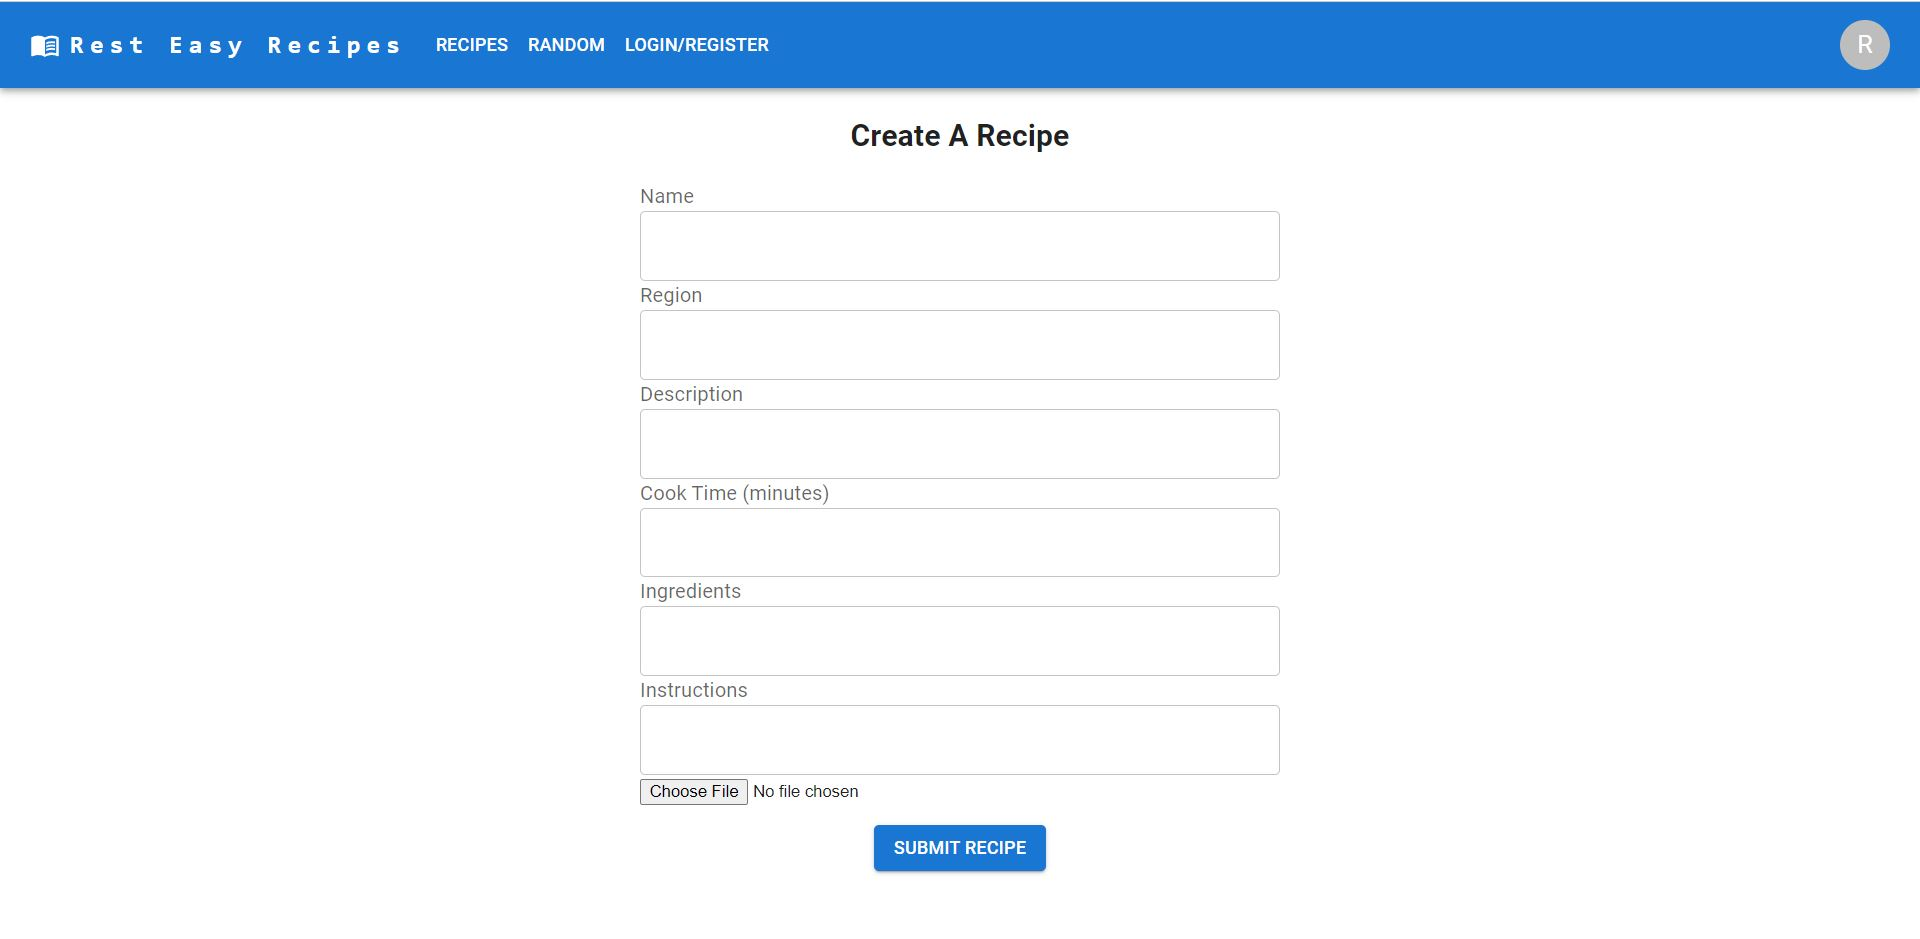
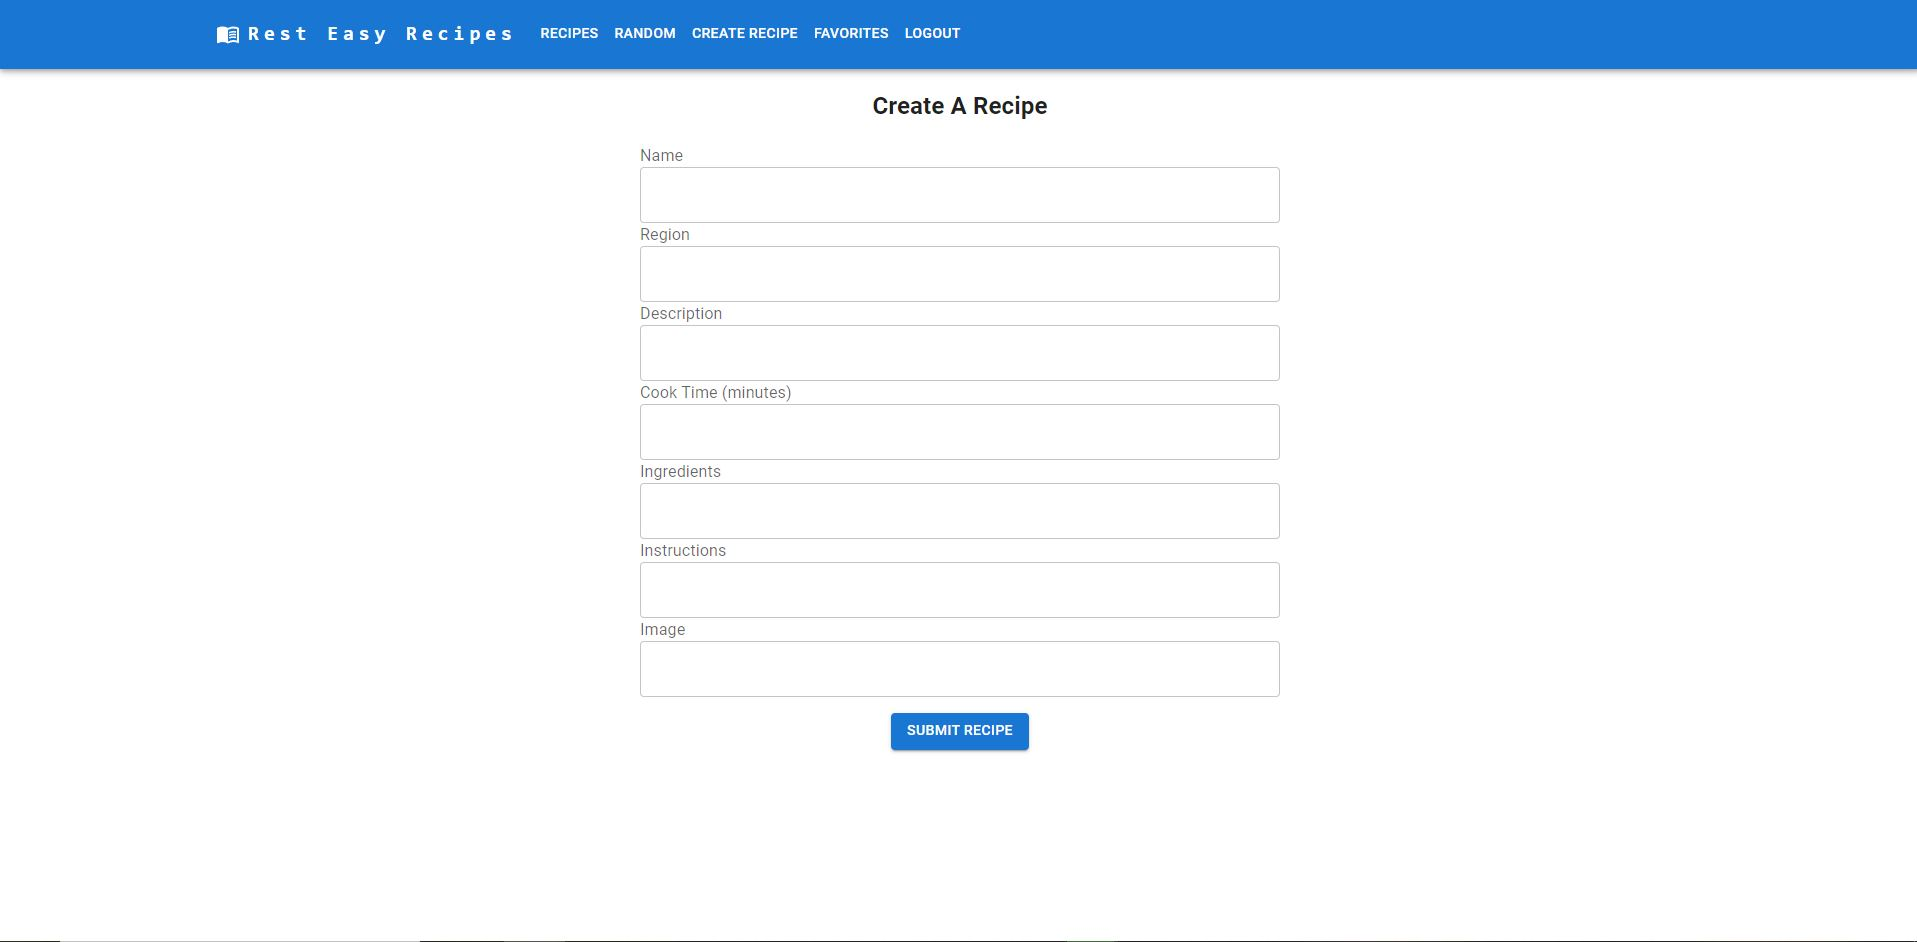
updating readme

diff --git a/README.md b/README.md
@@ -43,11 +43,14 @@ GIVEN a recipe blog
 **WHEN click login/register**
 *Then I am brought to a form to either login with my information or sign up for a login*
 
-**WHEN I post my own recipes**
-*THEN I am brought to a form where I can enter in the ingredients, directions and add pictures of my recipe*
+**WHEN I view a posted recipe**
+*THEN I am able to click a drop down arrow to view more information on the recipe*
 
-**WHEN I search for other recipes**
-*THEN I am able to click on a recipe and comment and rate it*
+**WHEN I post my own recipes**
+*THEN I am brought to a form where I can enter in the name of the dish, the region of the dish, ingredients, directions, the cook time for the recipe and add pictures of my recipe*
+
+**WHEN I click on the star rating for a recipe**
+*THEN I am able to change the rating of that recipe*
 
 **WHEN I see a recipe I like**
 *I am able to favorite it and it is added to my saved recipes*
@@ -74,6 +77,8 @@ GIVEN a recipe blog
 ![Home Page](./client/src/Images/homepage.JPG)
 
 ![Login/Register](./client/src/Images/login-signup.JPG)
+
+![Home Page Logged in](./client/src/Images/homepage-login.JPG)
 
 ![Create Recipe](./client/src/Images/create.JPG)
 
